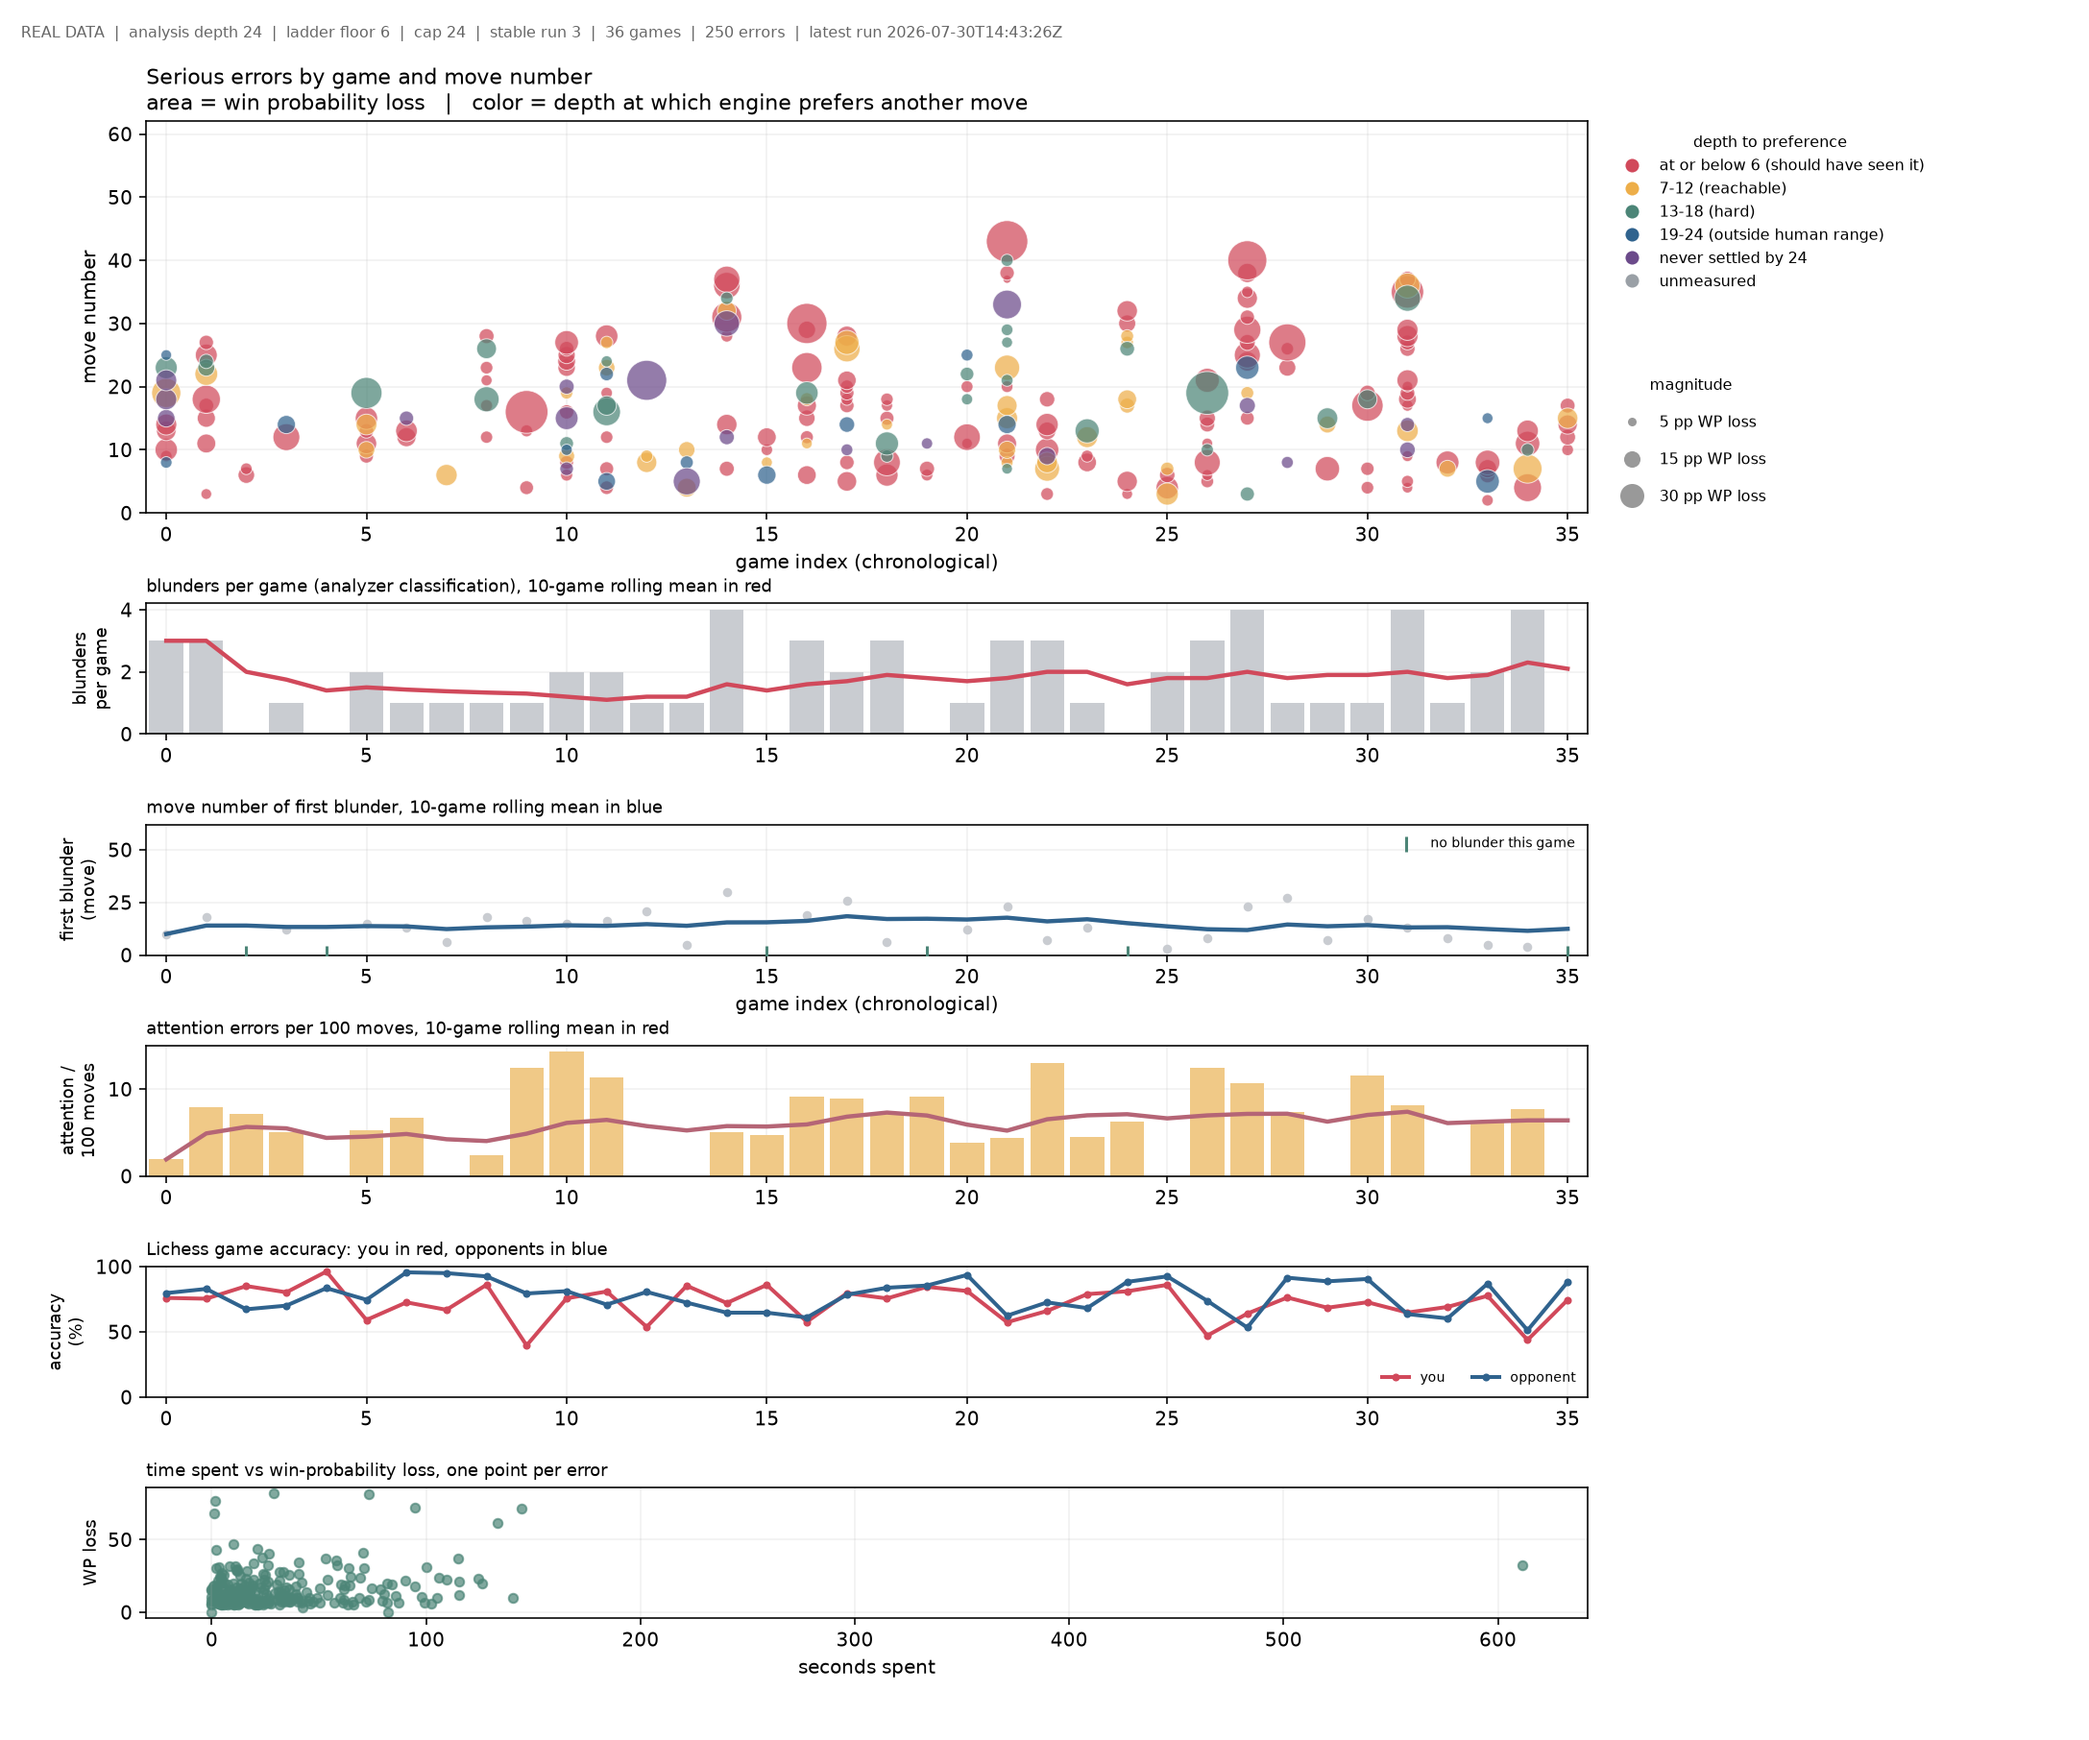
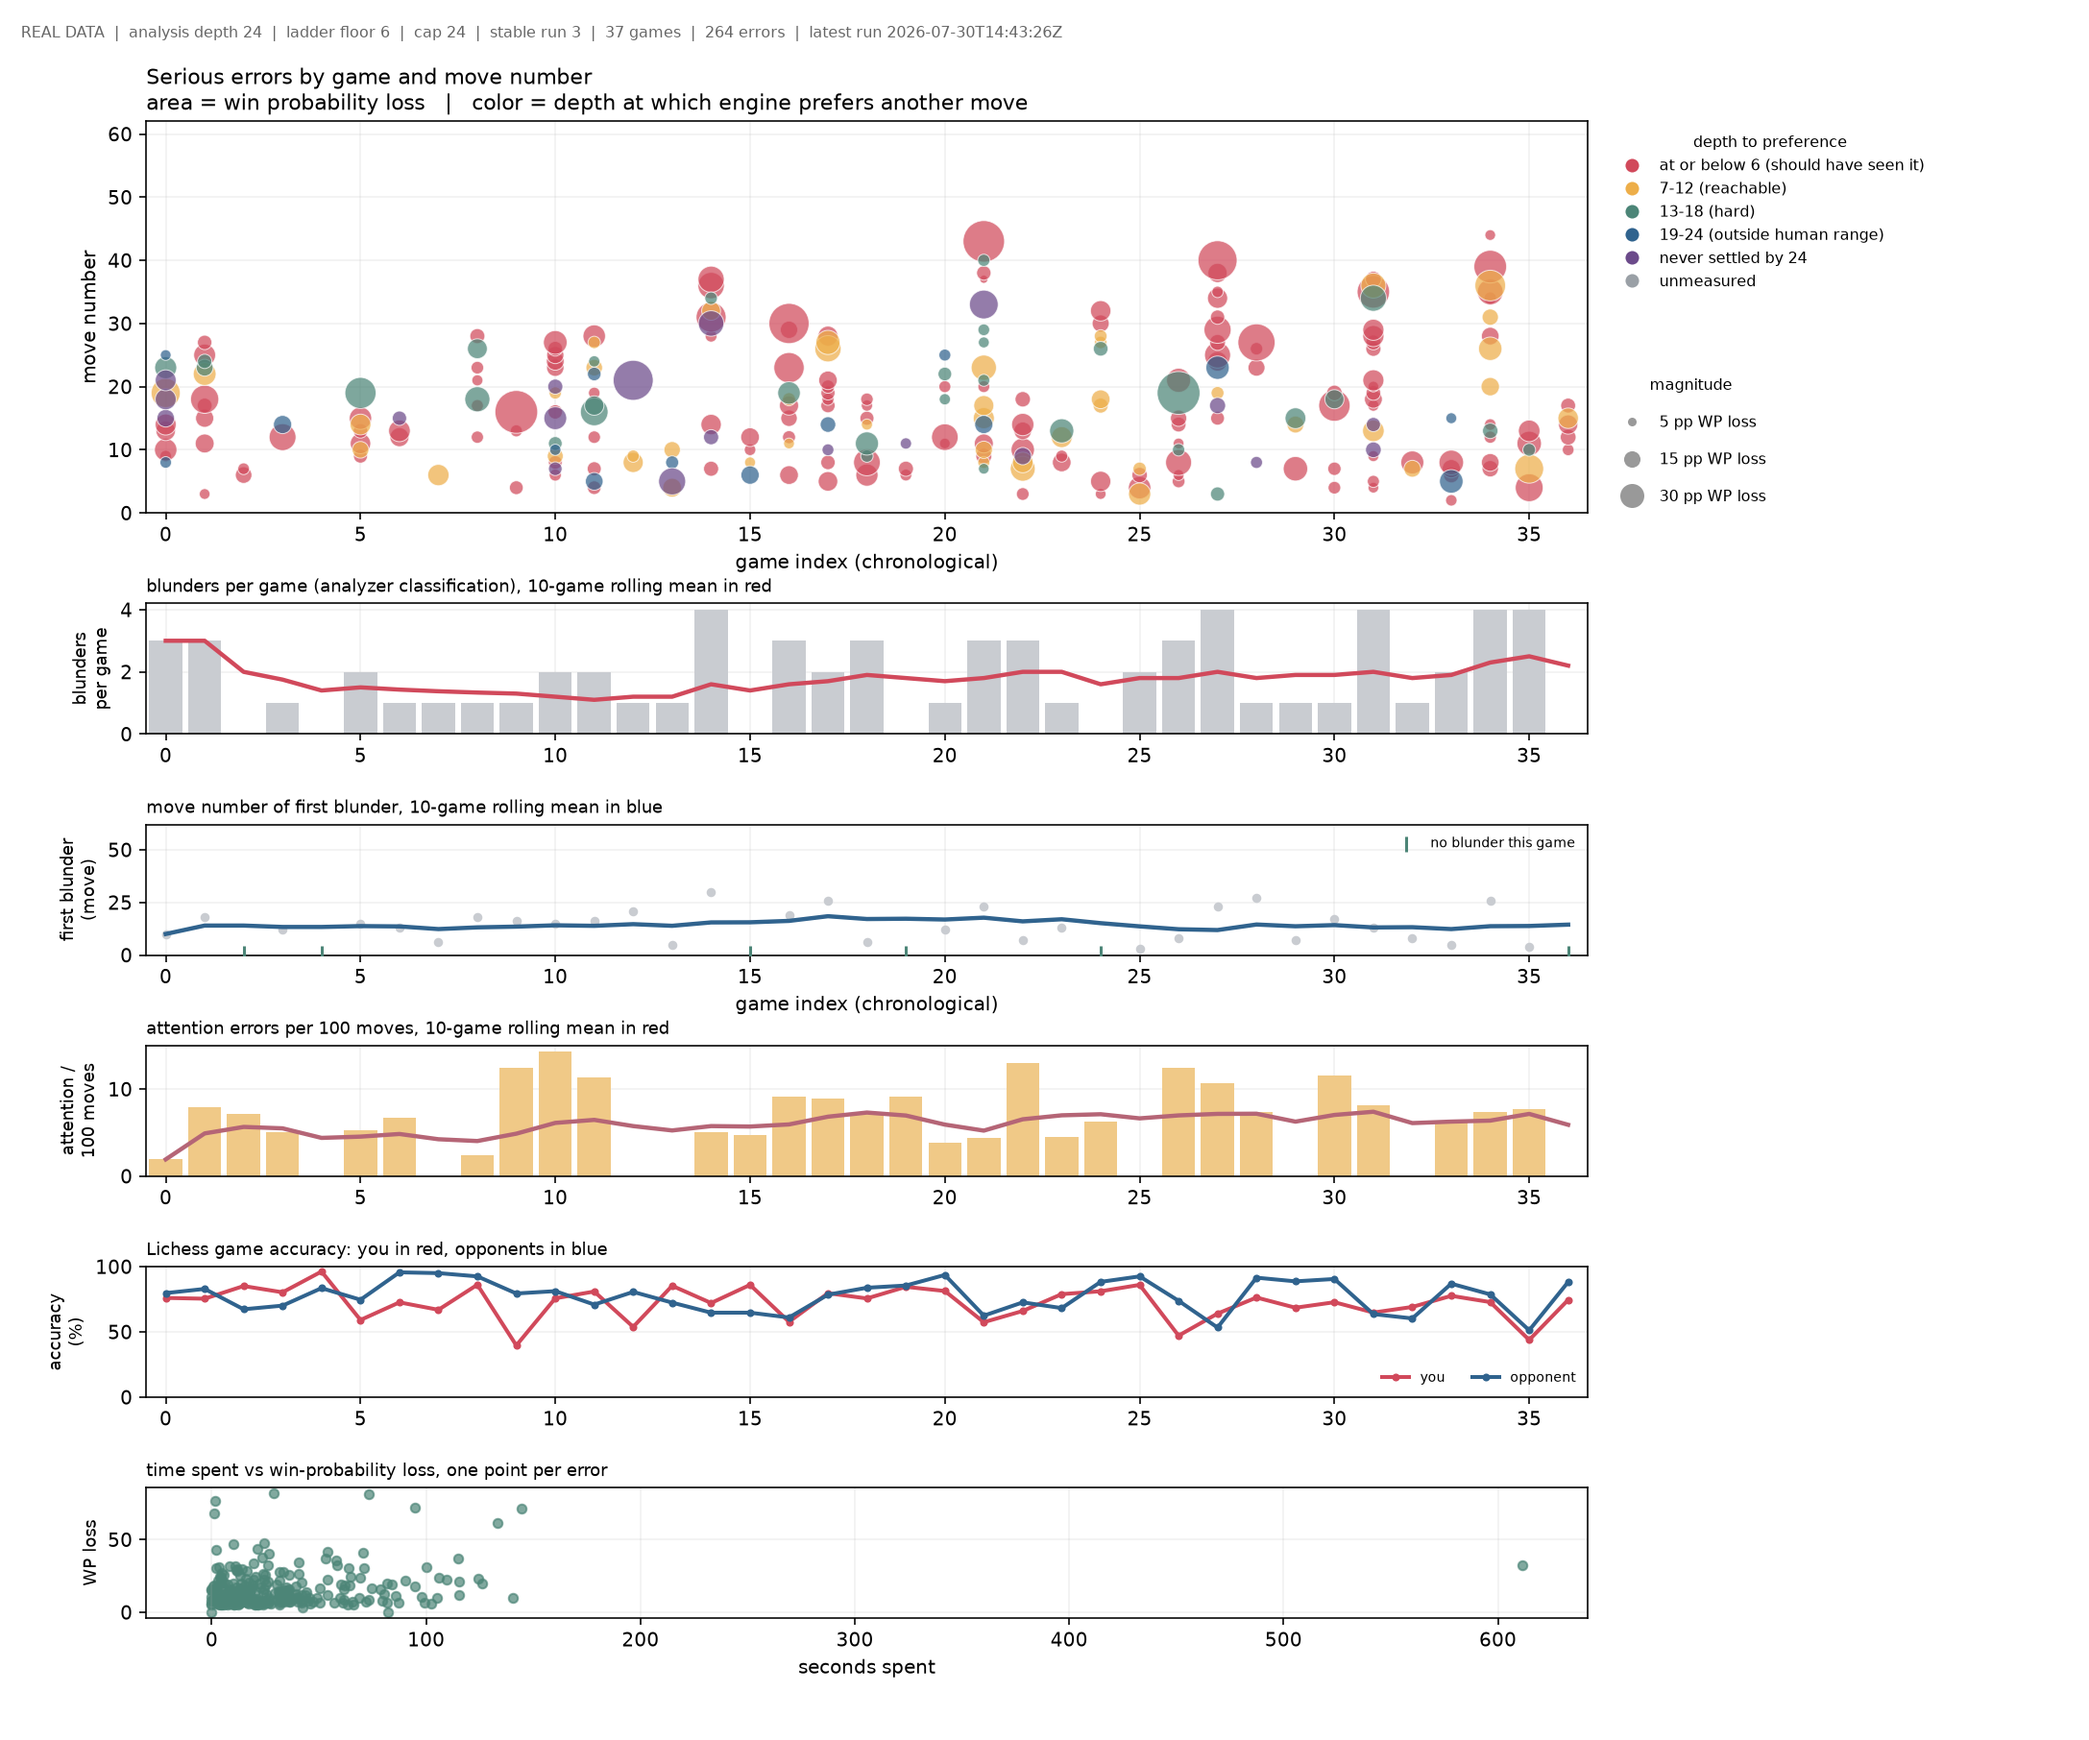
Update blunder report

diff --git a/blunder_report.md b/blunder_report.md
@@ -1,6 +1,6 @@
 # Blunder Report
 
-REAL DATA  |  analysis depth 24  |  ladder floor 6  |  cap 24  |  stable run 3  |  36 games  |  250 errors  |  latest run 2026-07-30T14:43:26Z
+REAL DATA  |  analysis depth 24  |  ladder floor 6  |  cap 24  |  stable run 3  |  37 games  |  264 errors  |  latest run 2026-07-30T14:43:26Z
 
 Depth column: an integer is a measured depth. `<=floor` means the engine stably preferred the move at or below depth 6, which is as shallow as this measurement resolves. `>cap` means it never settled within depth 24. `unmeasured` means the measurement was invalid and the row is kept but not binned.
 
@@ -248,13 +248,27 @@ Depth column: an integer is a measured depth. `<=floor` means the engine stably 
 | 33 | c3e7b096-8b66-11f1-9ec1-4cc4c201000b | 2026.07.29 | 7...e5 | mistake | attention | 14.8 | <=floor | 1 | 0.0 | balanced | [1006217278_20260729T163718Z_black.md](reports/2026/07/29/1006217278_20260729T163718Z_black.md) |
 | 33 | c3e7b096-8b66-11f1-9ec1-4cc4c201000b | 2026.07.29 | 8...Nbd7 | blunder | attention | 26.9 | <=floor | 1 | 4.7 | losing | [1006217278_20260729T163718Z_black.md](reports/2026/07/29/1006217278_20260729T163718Z_black.md) |
 | 33 | c3e7b096-8b66-11f1-9ec1-4cc4c201000b | 2026.07.29 | 15...Ng4 | inaccuracy | allowed_tactic | 5.3 | 20 | >18 | 0.0 | losing | [1006217278_20260729T163718Z_black.md](reports/2026/07/29/1006217278_20260729T163718Z_black.md) |
-| 34 | 40d0daba-8c44-11f1-87d4-59424301000f | 2026.07.30 | 4.Ng5 | blunder | attention | 34.5 | <=floor | 1 | 40.4 | balanced | [172302205862_20260730T184321Z_white.md](reports/2026/07/30/172302205862_20260730T184321Z_white.md) |
-| 34 | 40d0daba-8c44-11f1-87d4-59424301000f | 2026.07.30 | 7.Ke2 | blunder | missed_tactic | 37.1 | 8 | 3 | 115.1 | balanced | [172302205862_20260730T184321Z_white.md](reports/2026/07/30/172302205862_20260730T184321Z_white.md) |
-| 34 | 40d0daba-8c44-11f1-87d4-59424301000f | 2026.07.30 | 10.Nxe5 | inaccuracy | opening | 7.2 | 15 | 12 | 47.2 | losing | [172302205862_20260730T184321Z_white.md](reports/2026/07/30/172302205862_20260730T184321Z_white.md) |
-| 34 | 40d0daba-8c44-11f1-87d4-59424301000f | 2026.07.30 | 11.Bxf1 | blunder | missed_tactic | 26.6 | <=floor | 10 | 24.2 | losing | [172302205862_20260730T184321Z_white.md](reports/2026/07/30/172302205862_20260730T184321Z_white.md) |
-| 34 | 40d0daba-8c44-11f1-87d4-59424301000f | 2026.07.30 | 13.Kc3 | blunder | allowed_tactic | 20.7 | <=floor | 3 | 17.4 | losing | [172302205862_20260730T184321Z_white.md](reports/2026/07/30/172302205862_20260730T184321Z_white.md) |
-| 35 | d0dafb06-8c20-11f1-85a4-9b2a4301000f | 2026.07.30 | 10...O-O-O | inaccuracy | opening | 6.1 | <=floor | 6 | 45.9 | balanced | [172291417954_20260730T142444Z_black.md](reports/2026/07/30/172291417954_20260730T142444Z_black.md) |
-| 35 | d0dafb06-8c20-11f1-85a4-9b2a4301000f | 2026.07.30 | 12...Ke6 | mistake | positional | 11.1 | <=floor | 5 | 35.3 | balanced | [172291417954_20260730T142444Z_black.md](reports/2026/07/30/172291417954_20260730T142444Z_black.md) |
-| 35 | d0dafb06-8c20-11f1-85a4-9b2a4301000f | 2026.07.30 | 14...Nxc3 | mistake | missed_tactic | 16.4 | <=floor | 7 | 50.5 | balanced | [172291417954_20260730T142444Z_black.md](reports/2026/07/30/172291417954_20260730T142444Z_black.md) |
-| 35 | d0dafb06-8c20-11f1-85a4-9b2a4301000f | 2026.07.30 | 15...f6 | mistake | allowed_tactic | 18.6 | 8 | 6 | 62.2 | balanced | [172291417954_20260730T142444Z_black.md](reports/2026/07/30/172291417954_20260730T142444Z_black.md) |
-| 35 | d0dafb06-8c20-11f1-85a4-9b2a4301000f | 2026.07.30 | 17...Bd6 | inaccuracy | allowed_tactic | 9.8 | <=floor | 5 | 7.3 | losing | [172291417954_20260730T142444Z_black.md](reports/2026/07/30/172291417954_20260730T142444Z_black.md) |
+| 34 | 270818a7-8c6a-11f1-91da-1f3fb001000f | 2026.07.30 | 7.f4 | mistake | attention | 11.9 | <=floor | 1 | 43.6 | balanced | [172311344620_20260730T232348Z_white.md](reports/2026/07/30/172311344620_20260730T232348Z_white.md) |
+| 34 | 270818a7-8c6a-11f1-91da-1f3fb001000f | 2026.07.30 | 8.Nf3 | mistake | missed_tactic | 13.9 | <=floor | 4 | 31.5 | balanced | [172311344620_20260730T232348Z_white.md](reports/2026/07/30/172311344620_20260730T232348Z_white.md) |
+| 34 | 270818a7-8c6a-11f1-91da-1f3fb001000f | 2026.07.30 | 12.g3 | inaccuracy | attention | 6.6 | <=floor | 1 | 31.4 | winning | [172311344620_20260730T232348Z_white.md](reports/2026/07/30/172311344620_20260730T232348Z_white.md) |
+| 34 | 270818a7-8c6a-11f1-91da-1f3fb001000f | 2026.07.30 | 13.O-O | mistake | allowed_tactic | 10.6 | 15 | 3 | 12.0 | winning | [172311344620_20260730T232348Z_white.md](reports/2026/07/30/172311344620_20260730T232348Z_white.md) |
+| 34 | 270818a7-8c6a-11f1-91da-1f3fb001000f | 2026.07.30 | 14.b4 | inaccuracy | positional | 6.0 | <=floor | 15 | 22.9 | balanced | [172311344620_20260730T232348Z_white.md](reports/2026/07/30/172311344620_20260730T232348Z_white.md) |
+| 34 | 270818a7-8c6a-11f1-91da-1f3fb001000f | 2026.07.30 | 20.f5 | mistake | allowed_tactic | 15.0 | 11 | 1 | 35.3 | winning | [172311344620_20260730T232348Z_white.md](reports/2026/07/30/172311344620_20260730T232348Z_white.md) |
+| 34 | 270818a7-8c6a-11f1-91da-1f3fb001000f | 2026.07.30 | 26.Bc5 | blunder | missed_tactic | 24.4 | 12 | 1 | 20.5 | winning | [172311344620_20260730T232348Z_white.md](reports/2026/07/30/172311344620_20260730T232348Z_white.md) |
+| 34 | 270818a7-8c6a-11f1-91da-1f3fb001000f | 2026.07.30 | 28.Ke1 | mistake | attention | 13.8 | <=floor | 2 | 35.5 | winning | [172311344620_20260730T232348Z_white.md](reports/2026/07/30/172311344620_20260730T232348Z_white.md) |
+| 34 | 270818a7-8c6a-11f1-91da-1f3fb001000f | 2026.07.30 | 31.Kf2 | mistake | missed_tactic | 11.8 | 10 | 1 | 41.8 | winning | [172311344620_20260730T232348Z_white.md](reports/2026/07/30/172311344620_20260730T232348Z_white.md) |
+| 34 | 270818a7-8c6a-11f1-91da-1f3fb001000f | 2026.07.30 | 34.Be3 | inaccuracy | positional | 6.9 | <=floor | >18 | 19.2 | winning | [172311344620_20260730T232348Z_white.md](reports/2026/07/30/172311344620_20260730T232348Z_white.md) |
+| 34 | 270818a7-8c6a-11f1-91da-1f3fb001000f | 2026.07.30 | 35.Bf4 | blunder | allowed_tactic | 29.4 | <=floor | 3 | 14.0 | winning | [172311344620_20260730T232348Z_white.md](reports/2026/07/30/172311344620_20260730T232348Z_white.md) |
+| 34 | 270818a7-8c6a-11f1-91da-1f3fb001000f | 2026.07.30 | 36.a5 | blunder | missed_tactic | 41.9 | 8 | 11 | 54.0 | balanced | [172311344620_20260730T232348Z_white.md](reports/2026/07/30/172311344620_20260730T232348Z_white.md) |
+| 34 | 270818a7-8c6a-11f1-91da-1f3fb001000f | 2026.07.30 | 39.Ke4 | blunder | endgame | 47.5 | <=floor | 11 | 24.6 | balanced | [172311344620_20260730T232348Z_white.md](reports/2026/07/30/172311344620_20260730T232348Z_white.md) |
+| 34 | 270818a7-8c6a-11f1-91da-1f3fb001000f | 2026.07.30 | 44.Kb7 | inaccuracy | attention | 5.0 | <=floor | 1 | 3.3 | losing | [172311344620_20260730T232348Z_white.md](reports/2026/07/30/172311344620_20260730T232348Z_white.md) |
+| 35 | 40d0daba-8c44-11f1-87d4-59424301000f | 2026.07.30 | 4.Ng5 | blunder | attention | 34.5 | <=floor | 1 | 40.4 | balanced | [172302205862_20260730T184321Z_white.md](reports/2026/07/30/172302205862_20260730T184321Z_white.md) |
+| 35 | 40d0daba-8c44-11f1-87d4-59424301000f | 2026.07.30 | 7.Ke2 | blunder | missed_tactic | 37.1 | 8 | 3 | 115.1 | balanced | [172302205862_20260730T184321Z_white.md](reports/2026/07/30/172302205862_20260730T184321Z_white.md) |
+| 35 | 40d0daba-8c44-11f1-87d4-59424301000f | 2026.07.30 | 10.Nxe5 | inaccuracy | opening | 7.2 | 15 | 12 | 47.2 | losing | [172302205862_20260730T184321Z_white.md](reports/2026/07/30/172302205862_20260730T184321Z_white.md) |
+| 35 | 40d0daba-8c44-11f1-87d4-59424301000f | 2026.07.30 | 11.Bxf1 | blunder | missed_tactic | 26.6 | <=floor | 10 | 24.2 | losing | [172302205862_20260730T184321Z_white.md](reports/2026/07/30/172302205862_20260730T184321Z_white.md) |
+| 35 | 40d0daba-8c44-11f1-87d4-59424301000f | 2026.07.30 | 13.Kc3 | blunder | allowed_tactic | 20.7 | <=floor | 3 | 17.4 | losing | [172302205862_20260730T184321Z_white.md](reports/2026/07/30/172302205862_20260730T184321Z_white.md) |
+| 36 | d0dafb06-8c20-11f1-85a4-9b2a4301000f | 2026.07.30 | 10...O-O-O | inaccuracy | opening | 6.1 | <=floor | 6 | 45.9 | balanced | [172291417954_20260730T142444Z_black.md](reports/2026/07/30/172291417954_20260730T142444Z_black.md) |
+| 36 | d0dafb06-8c20-11f1-85a4-9b2a4301000f | 2026.07.30 | 12...Ke6 | mistake | positional | 11.1 | <=floor | 5 | 35.3 | balanced | [172291417954_20260730T142444Z_black.md](reports/2026/07/30/172291417954_20260730T142444Z_black.md) |
+| 36 | d0dafb06-8c20-11f1-85a4-9b2a4301000f | 2026.07.30 | 14...Nxc3 | mistake | missed_tactic | 16.4 | <=floor | 7 | 50.5 | balanced | [172291417954_20260730T142444Z_black.md](reports/2026/07/30/172291417954_20260730T142444Z_black.md) |
+| 36 | d0dafb06-8c20-11f1-85a4-9b2a4301000f | 2026.07.30 | 15...f6 | mistake | allowed_tactic | 18.6 | 8 | 6 | 62.2 | balanced | [172291417954_20260730T142444Z_black.md](reports/2026/07/30/172291417954_20260730T142444Z_black.md) |
+| 36 | d0dafb06-8c20-11f1-85a4-9b2a4301000f | 2026.07.30 | 17...Bd6 | inaccuracy | allowed_tactic | 9.8 | <=floor | 5 | 7.3 | losing | [172291417954_20260730T142444Z_black.md](reports/2026/07/30/172291417954_20260730T142444Z_black.md) |
